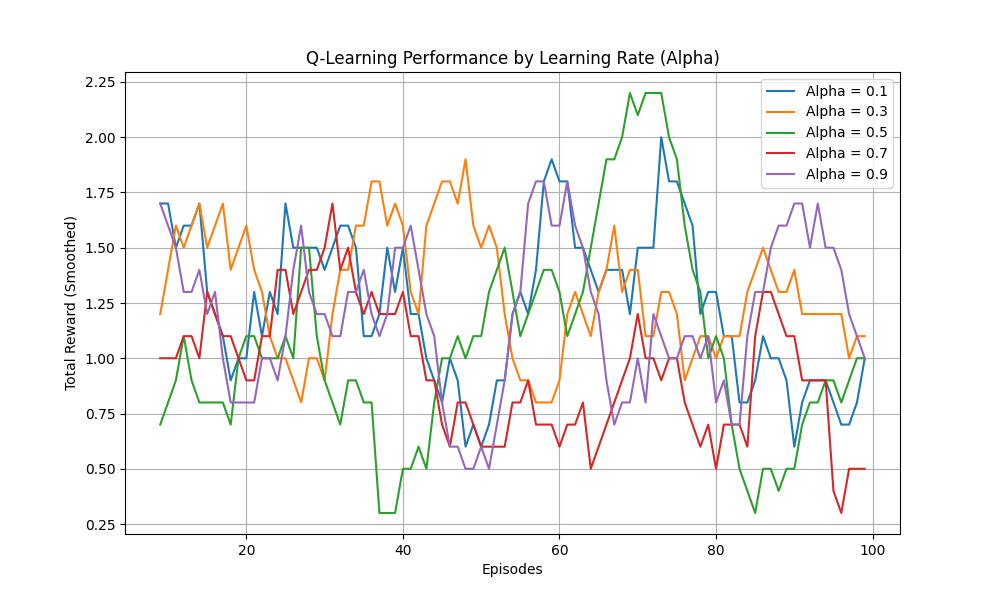
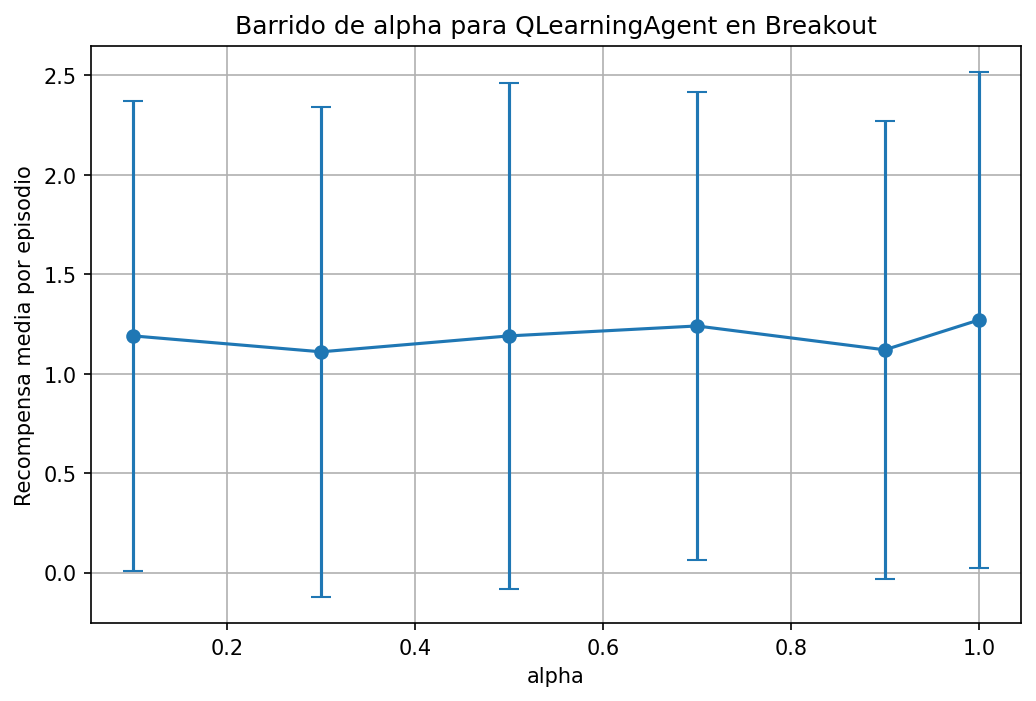
refactor: update Q-Learning agent for improved parameter handling, robust state discretization, and randomized action tie-breaking; remove unused serialized q_table file.

Changed region(s): [[0.0, 0.0, 0.992, 0.93], [0.465, 0.93, 0.558, 0.99]]

diff --git a/agents/qLearning/sweep_epsilon.py b/agents/qLearning/sweep_epsilon.py
@@ -11,23 +11,10 @@ PROJECT_ROOT = os.path.abspath(os.path.join(os.path.dirname(__file__), "..", "..
 if PROJECT_ROOT not in sys.path:
     sys.path.append(PROJECT_ROOT)
 
-import gymnasium as gym
-import ale_py
-import numpy as np
-import time
-import os
-import sys
-import matplotlib.pyplot as plt  # <-- para graficar
-
-# Aseguramos poder importar el agente desde la raíz del proyecto
-PROJECT_ROOT = os.path.abspath(os.path.join(os.path.dirname(__file__), "..", ".."))
-if PROJECT_ROOT not in sys.path:
-    sys.path.append(PROJECT_ROOT)
-
 from agents.qLearning.qlearning_agent import QLearningAgent
 
 
-def run_training_episode(env, epsilon_decay, epsilon_min, alpha, epsilon=1.0, gamma=0.99, max_steps=10000):
+def run_training_episode(env, epsilon, epsilon_decay, epsilon_min, alpha=0.5, gamma=0.99, max_steps=10000):
     """
     Entrena un QLearningAgent durante un episodio con los hiperparámetros dados
     y devuelve la recompensa total obtenida.
@@ -104,17 +91,17 @@ def run_training_episode(env, epsilon_decay, epsilon_min, alpha, epsilon=1.0, ga
     return total_reward
 
 
-def sweep_alpha(
-    alpha_values,
-    epsilon=1.0,
+def sweep_epsilon(
+    epsilon_values,
     episodes_per_value=3,
     epsilon_decay=0.9995,
     epsilon_min=0.01,
+    alpha=0.5,
     gamma=0.99,
 ):
     """
-    Barre sobre una lista de valores de alpha.
-    Para cada alpha:
+    Barre sobre una lista de valores iniciales de epsilon.
+    Para cada epsilon:
       - ejecuta varios episodios de entrenamiento cortos
       - devuelve la recompensa media y std.
     """
@@ -128,16 +115,16 @@ def sweep_alpha(
 
     results = []
 
-    for alph in alpha_values:
-        print(f"\n===== Probando alpha = {alph} =====")
+    for eps in epsilon_values:
+        print(f"\n===== Probando epsilon inicial = {eps} =====")
         rewards = []
         for ep in range(episodes_per_value):
             total_reward = run_training_episode(
                 env,
+                epsilon=eps,
                 epsilon_decay=epsilon_decay,
                 epsilon_min=epsilon_min,
-                alpha=alph,
-                epsilon=epsilon,
+                alpha=alpha,
                 gamma=gamma,
             )
             rewards.append(total_reward)
@@ -145,32 +132,32 @@ def sweep_alpha(
 
         mean_reward = float(np.mean(rewards))
         std_reward = float(np.std(rewards))
-        results.append((alph, mean_reward, std_reward))
-        print(f"--> alpha = {alph}: recompensa media = {mean_reward:.2f} ± {std_reward:.2f}")
+        results.append((eps, mean_reward, std_reward))
+        print(f"--> epsilon = {eps}: recompensa media = {mean_reward:.2f} ± {std_reward:.2f}")
 
     env.close()
     return results
 
 
-def plot_alpha_sweep(results, output_path=None):
+def plot_epsilon_sweep(results, output_path=None):
     """
-    Grafica recompensa media vs alpha con barras de error (std).
+    Grafica recompensa media vs epsilon con barras de error (std).
     """
-    alphas = [r[0] for r in results]
+    epsilons = [r[0] for r in results]
     means = [r[1] for r in results]
     stds = [r[2] for r in results]
 
     plt.figure(figsize=(8, 5))
-    plt.errorbar(alphas, means, yerr=stds, fmt='-o', capsize=5)
-    plt.xlabel("alpha")
+    plt.errorbar(epsilons, means, yerr=stds, fmt='-o', capsize=5)
+    plt.xlabel("Epsilon inicial")
     plt.ylabel("Recompensa media por episodio")
-    plt.title("Barrido de alpha para QLearningAgent en Breakout")
+    plt.title("Barrido de epsilon para QLearningAgent en Breakout")
     plt.grid(True)
 
     if output_path is None:
         # Por defecto, guardamos en el mismo directorio que este script
         script_dir = os.path.dirname(os.path.abspath(__file__))
-        output_path = os.path.join(script_dir, "alpha_sweep.png")
+        output_path = os.path.join(script_dir, "epsilon_sweep.png")
 
     plt.savefig(output_path, dpi=150, bbox_inches="tight")
     plt.close()
@@ -178,26 +165,26 @@ def plot_alpha_sweep(results, output_path=None):
 
 
 def main():
-    # Lista de valores de alpha a probar
-    alpha_values = [0.1, 0.3, 0.5, 0.7,0.9, 1.0]
+    # Lista de valores de epsilon a probar (ajusta según necesites)
+    epsilon_values = [0.1, 0.2, 0.3, 0.5, 0.7, 1.0]
 
-    episodes_per_value = 100  # Episodios por cada alpha
+    episodes_per_value = 100  # Episodios por cada epsilon
 
-    results = sweep_alpha(
-        alpha_values=alpha_values,
-        epsilon=1.0,
+    results = sweep_epsilon(
+        epsilon_values=epsilon_values,
         episodes_per_value=episodes_per_value,
         epsilon_decay=0.9995,
         epsilon_min=0.01,
+        alpha=1,
         gamma=0.99,
     )
 
-    print("\n===== RESUMEN BARRIDO ALPHA =====")
-    for alph, mean_r, std_r in results:
-        print(f"alpha = {alph:>4}: media = {mean_r:7.2f}, std = {std_r:7.2f}")
+    print("\n===== RESUMEN BARRIDO EPSILON =====")
+    for eps, mean_r, std_r in results:
+        print(f"epsilon = {eps:>4}: media = {mean_r:7.2f}, std = {std_r:7.2f}")
 
-    # Graficar y guardar en alpha_sweep.png
-    plot_alpha_sweep(results)
+    # Graficar y guardar en epsilon_sweep.png
+    plot_epsilon_sweep(results)
 
 
 if __name__ == "__main__":

diff --git a/agents/qLearning/qlearning_agent.py b/agents/qLearning/qlearning_agent.py
@@ -3,13 +3,41 @@ import pickle
 import os
 
 class QLearningAgent:
-    def __init__(self, action_space, alpha=0.5, gamma=0.99, epsilon=1.0, epsilon_decay=0.9995, epsilon_min=0.01):
+    def __init__(
+        self,
+        action_space,
+        alpha=1.0,
+        gamma=0.99,
+        epsilon=1.0,
+        epsilon_decay=0.9995,
+        epsilon_min=0.01,
+        alpha_decay=1.0,
+        alpha_min=0.05,
+        grid_size=10,
+    ):
+        """
+        Basic tabular Q-Learning agent with simple vision-based state extraction.
+
+        Parameters:
+        - action_space: gymnasium action space
+        - alpha: learning rate
+        - gamma: discount factor
+        - epsilon: initial exploration rate
+        - epsilon_decay: multiplicative epsilon decay per episode/step (caller decides when to call decay)
+        - epsilon_min: exploration floor
+        - alpha_decay: multiplicative alpha decay factor applied in decay_alpha()
+        - alpha_min: minimal learning rate
+        - grid_size: bin size (in pixels) used to discretize positions
+        """
         self.action_space = action_space
         self.alpha = alpha
         self.gamma = gamma
         self.epsilon = epsilon
         self.epsilon_decay = epsilon_decay
         self.epsilon_min = epsilon_min
+        self.alpha_decay = alpha_decay
+        self.alpha_min = alpha_min
+        self.grid_size = grid_size
         self.q_table = {}
         self.prev_ball_x = None
         self.prev_ball_y = None
@@ -74,11 +102,11 @@ class QLearningAgent:
 
         # Bins
         # Screen is roughly 160x210
-        # Grid size: 10x10 pixels?
-        grid_size = 10
-        ball_x_bin = ball_x // grid_size
-        ball_y_bin = ball_y // grid_size
-        paddle_x_bin = paddle_x // grid_size
+        grid_size = self.grid_size
+        # Clamp to avoid out-of-range values if detection is noisy
+        ball_x_bin = int(np.clip(ball_x // grid_size, 0, 160 // grid_size))
+        ball_y_bin = int(np.clip(ball_y // grid_size, 0, 210 // grid_size))
+        paddle_x_bin = int(np.clip(paddle_x // grid_size, 0, 160 // grid_size))
 
         # Velocity
         if self.prev_ball_x is None or self.prev_ball_y is None:
@@ -105,10 +133,14 @@ class QLearningAgent:
         # Greedy action
         if state not in self.q_table:
             self.q_table[state] = np.zeros(self.action_space.n)
-        
-        return int(np.argmax(self.q_table[state]))
 
-    def update(self, observation, action, reward, next_observation):
+        q_values = self.q_table[state]
+        # Random tie-breaking among best actions (prevents action bias)
+        max_q = np.max(q_values)
+        best_actions = np.flatnonzero(q_values == max_q)
+        return int(np.random.choice(best_actions))
+
+    def update(self, observation, action, reward, next_observation, done=False):
         state = self.get_state(observation)
         next_state = self.get_state(next_observation)
 
@@ -118,9 +150,8 @@ class QLearningAgent:
         if state not in self.q_table:
             self.q_table[state] = np.zeros(self.action_space.n)
         
-        if next_state is None:
-            # Terminal state or lost ball, assume 0 future value?
-            # Or just ignore next max q
+        # Compute TD target (no bootstrap if terminal)
+        if done:
             target = reward
         else:
             if next_state not in self.q_table:
@@ -132,7 +163,16 @@ class QLearningAgent:
     def decay_epsilon(self):
         self.epsilon = max(self.epsilon_min, self.epsilon * self.epsilon_decay)
 
+    def decay_alpha(self):
+        self.alpha = max(self.alpha_min, self.alpha * self.alpha_decay)
+
+    def reset_episode(self):
+        """Call at the beginning of each episode to clear internal momentum."""
+        self.prev_ball_x = None
+        self.prev_ball_y = None
+
     def save(self, filename):
+        # Backward-compatible: keep saving only the q_table
         with open(filename, 'wb') as f:
             pickle.dump(self.q_table, f)
         print(f"Q-table saved to {filename}")

diff --git a/agents/qLearning/train_qlearning.py b/agents/qLearning/train_qlearning.py
@@ -16,14 +16,15 @@ def main():
     agent = QLearningAgent(env.action_space)
     
     # Load existing model if available
-    model_path = "q_table.pkl"
+    model_path = "agents/qLearning/q_table.pkl"
     #agent.load(model_path)
 
-    episodes = 50
+    episodes = 100
     save_interval = 10
 
     for episode in range(episodes):
         obs, info = env.reset()
+        agent.reset_episode()
         total_reward = 0
         terminated = False
         truncated = False
@@ -65,7 +66,7 @@ def main():
                     if dist < prev_dist:
                         shaped_reward += 0.05
             
-            agent.update(prev_obs, action, shaped_reward, obs)
+            agent.update(prev_obs, action, shaped_reward, obs, done=(terminated or truncated))
             
             total_reward += reward # Keep tracking original reward for metrics
             prev_obs = obs
@@ -73,6 +74,7 @@ def main():
             prev_ball_x, prev_ball_y, prev_paddle_x = ball_x, ball_y, paddle_x
 
         agent.decay_epsilon()
+        agent.decay_alpha()
         
         if (episode + 1) % 10 == 0:
             print(f"Episode {episode + 1}: Reward = {total_reward}, Epsilon = {agent.epsilon:.4f}")

diff --git a/metrics/collect_metrics.py b/metrics/collect_metrics.py
@@ -14,11 +14,11 @@ from agents.follow_ball_agent import FollowBallAgent
 from agents.qLearning.qlearning_agent import QLearningAgent
 
 def get_agent(agent_name, env):
-    if agent_name == "RandomAgent":
+    if agent_name == "R":
         return RandomAgent(env.action_space)
-    elif agent_name == "FollowBallAgent":
+    elif agent_name == "Q":
         return FollowBallAgent(env.action_space)
-    elif agent_name == "QLearningAgent":
+    elif agent_name == "L":
         agent = QLearningAgent(env.action_space)
         agent.load("q_table.pkl")
         return agent

diff --git a/instructions.md b/instructions.md
@@ -38,10 +38,10 @@
 
    Correr RandomAgent por 10 episodios:
    ```bash
-   python metrics/collect_metrics.py --agent RandomAgent
+   python metrics/collect_metrics.py --agent R
    ```
 
    Correr FollowBallAgent por 5 episodios y ver cómo juega:
    ```bash
-   python metrics/collect_metrics.py --agent FollowBallAgent --episodes 5 --render
+   python metrics/collect_metrics.py --agent F --episodes 5 --render
    ```
